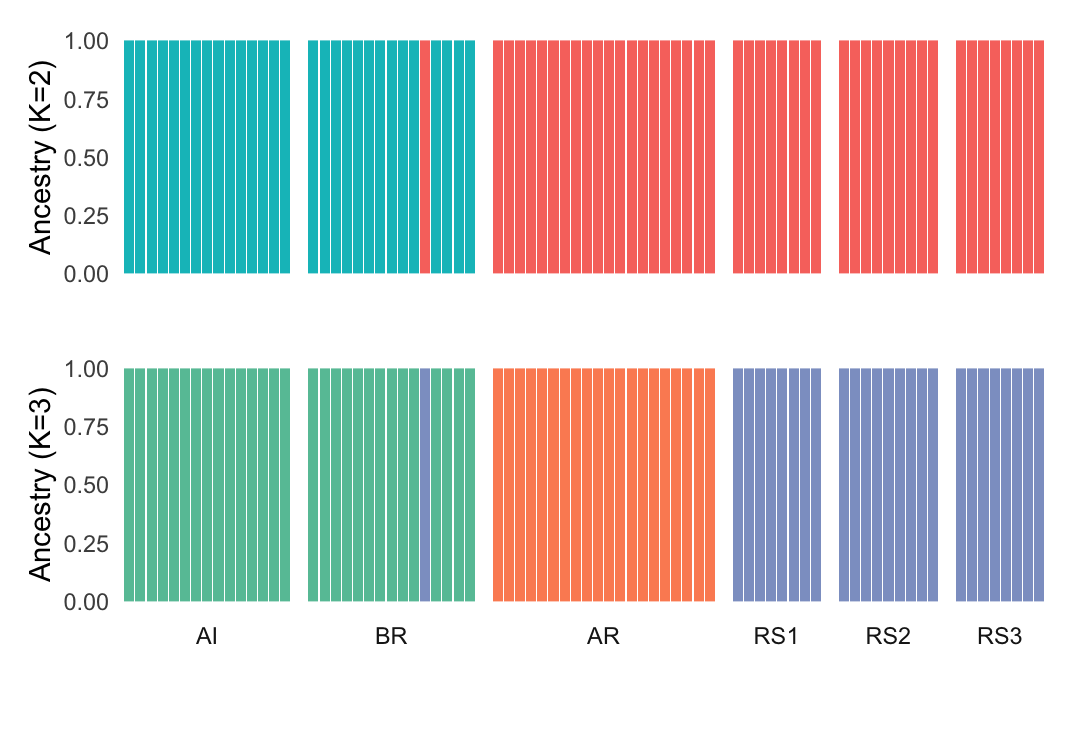
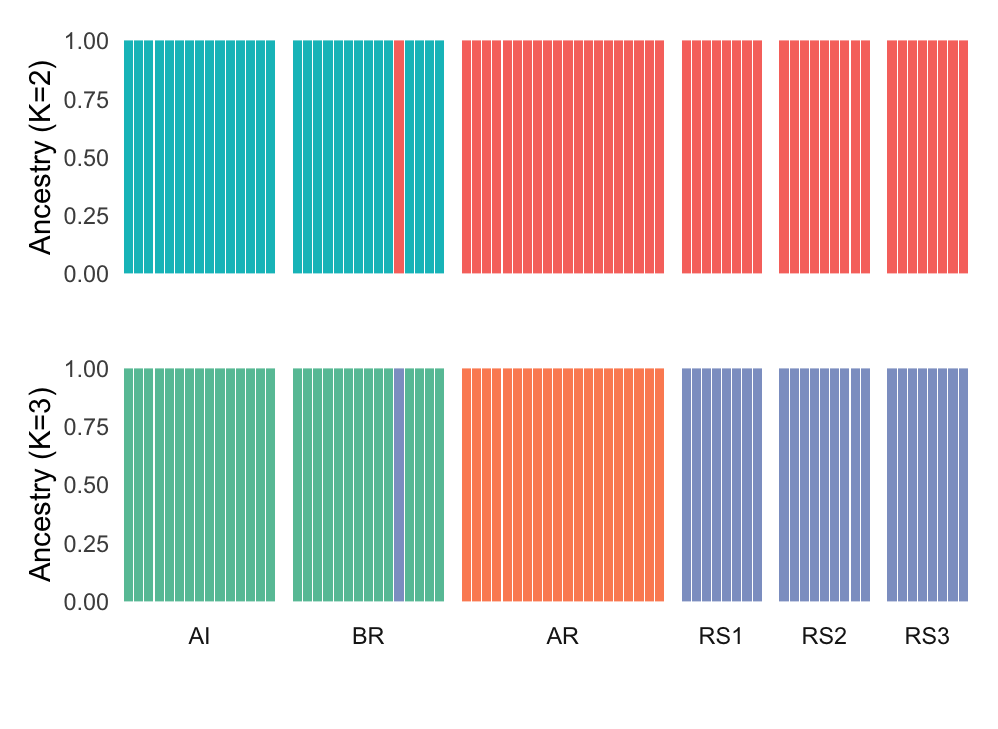
small format issues

diff --git a/01.sample_information.md b/01.sample_information.md
@@ -43,6 +43,8 @@ the genome is covered by at least one read. The mean mapping depth is
 approximately 80% (79.86%) of genome regions were coverd by at least one
 read.
 
+**Table: A summary of mapping results per sample**
+
 | Sample ID     | Location       | Mapping rate (%) | Mean mapping depth (X) | Genome coverage (%) |
 |:--------------|:---------------|-----------------:|-----------------------:|--------------------:|
 | AI\_1\_001    | Inshore        |          97.6670 |              18.767037 |            79.90865 |
@@ -120,5 +122,3 @@ read.
 | RS3\_S\_232   | South Offshore |          95.7579 |              17.828818 |            80.11380 |
 | RS3\_S\_246   | South Offshore |          92.4953 |              14.257731 |            78.43161 |
 | RS3\_S\_250   | South Offshore |          96.9054 |               8.038645 |            75.33880 |
-
-Summary of mapping results

diff --git a/05.ibd_segemnts.md b/05.ibd_segemnts.md
@@ -33,7 +33,7 @@ zcat {scaffold}.ibd.gz | java -jar merge-ibd-segments.17Jan20.102.jar \
 The pairwise relatedness can be calculated using a python script
 [relatedness\_v1.py](http://faculty.washington.edu/sguy/ibd_relatedness.html)
 in which the relatedness was calculated as the proportion of shared
-haplotype length divided by the total chromsome length\*2.
+haplotype length divided by the total chromosome length\*2.
 
 ``` bash
 cat *.merged.ibd | python2 relatedness_v1.py map.txt 0 > Adigi_ind74.ibd_relatedness.txt

diff --git a/04.population_structure.md b/04.population_structure.md
@@ -98,6 +98,6 @@ The cross-validation error suggests the lowest cross-validation error is
 with K=1 which is a common situation when population differentiation is
 subtle. We then check results for K=2,3.
 
-<img src="04.population_structure_files/figure-gfm/admixture-1.png" width="537.6" style="float:left" />
+<img src="04.population_structure_files/figure-gfm/admixture-1.png" width="499.2" style="float:left" />
 
 <img src="04.population_structure_files/figure-gfm/cv-1.png" width="326.4" style="float:left" />

diff --git a/03.popgen_stats.md b/03.popgen_stats.md
@@ -126,7 +126,7 @@ plink --vcf Adigi.v2.filtered.vcf.gz \
   --keep {pop}_subset.txt
 ```
 
-<img src="03.popgen_stats_files/figure-gfm/ld-decay-1.png" width="384" style="display: block; margin: auto;" />
+<img src="03.popgen_stats_files/figure-gfm/ld-decay-1.png" width="499.2" style="display: block; margin: auto;" />
 
 **Figure:** The plot depicts the interval distance against the LD
 *r*<sup>2</sup> value. Red, blue, green dots represent values calculated
